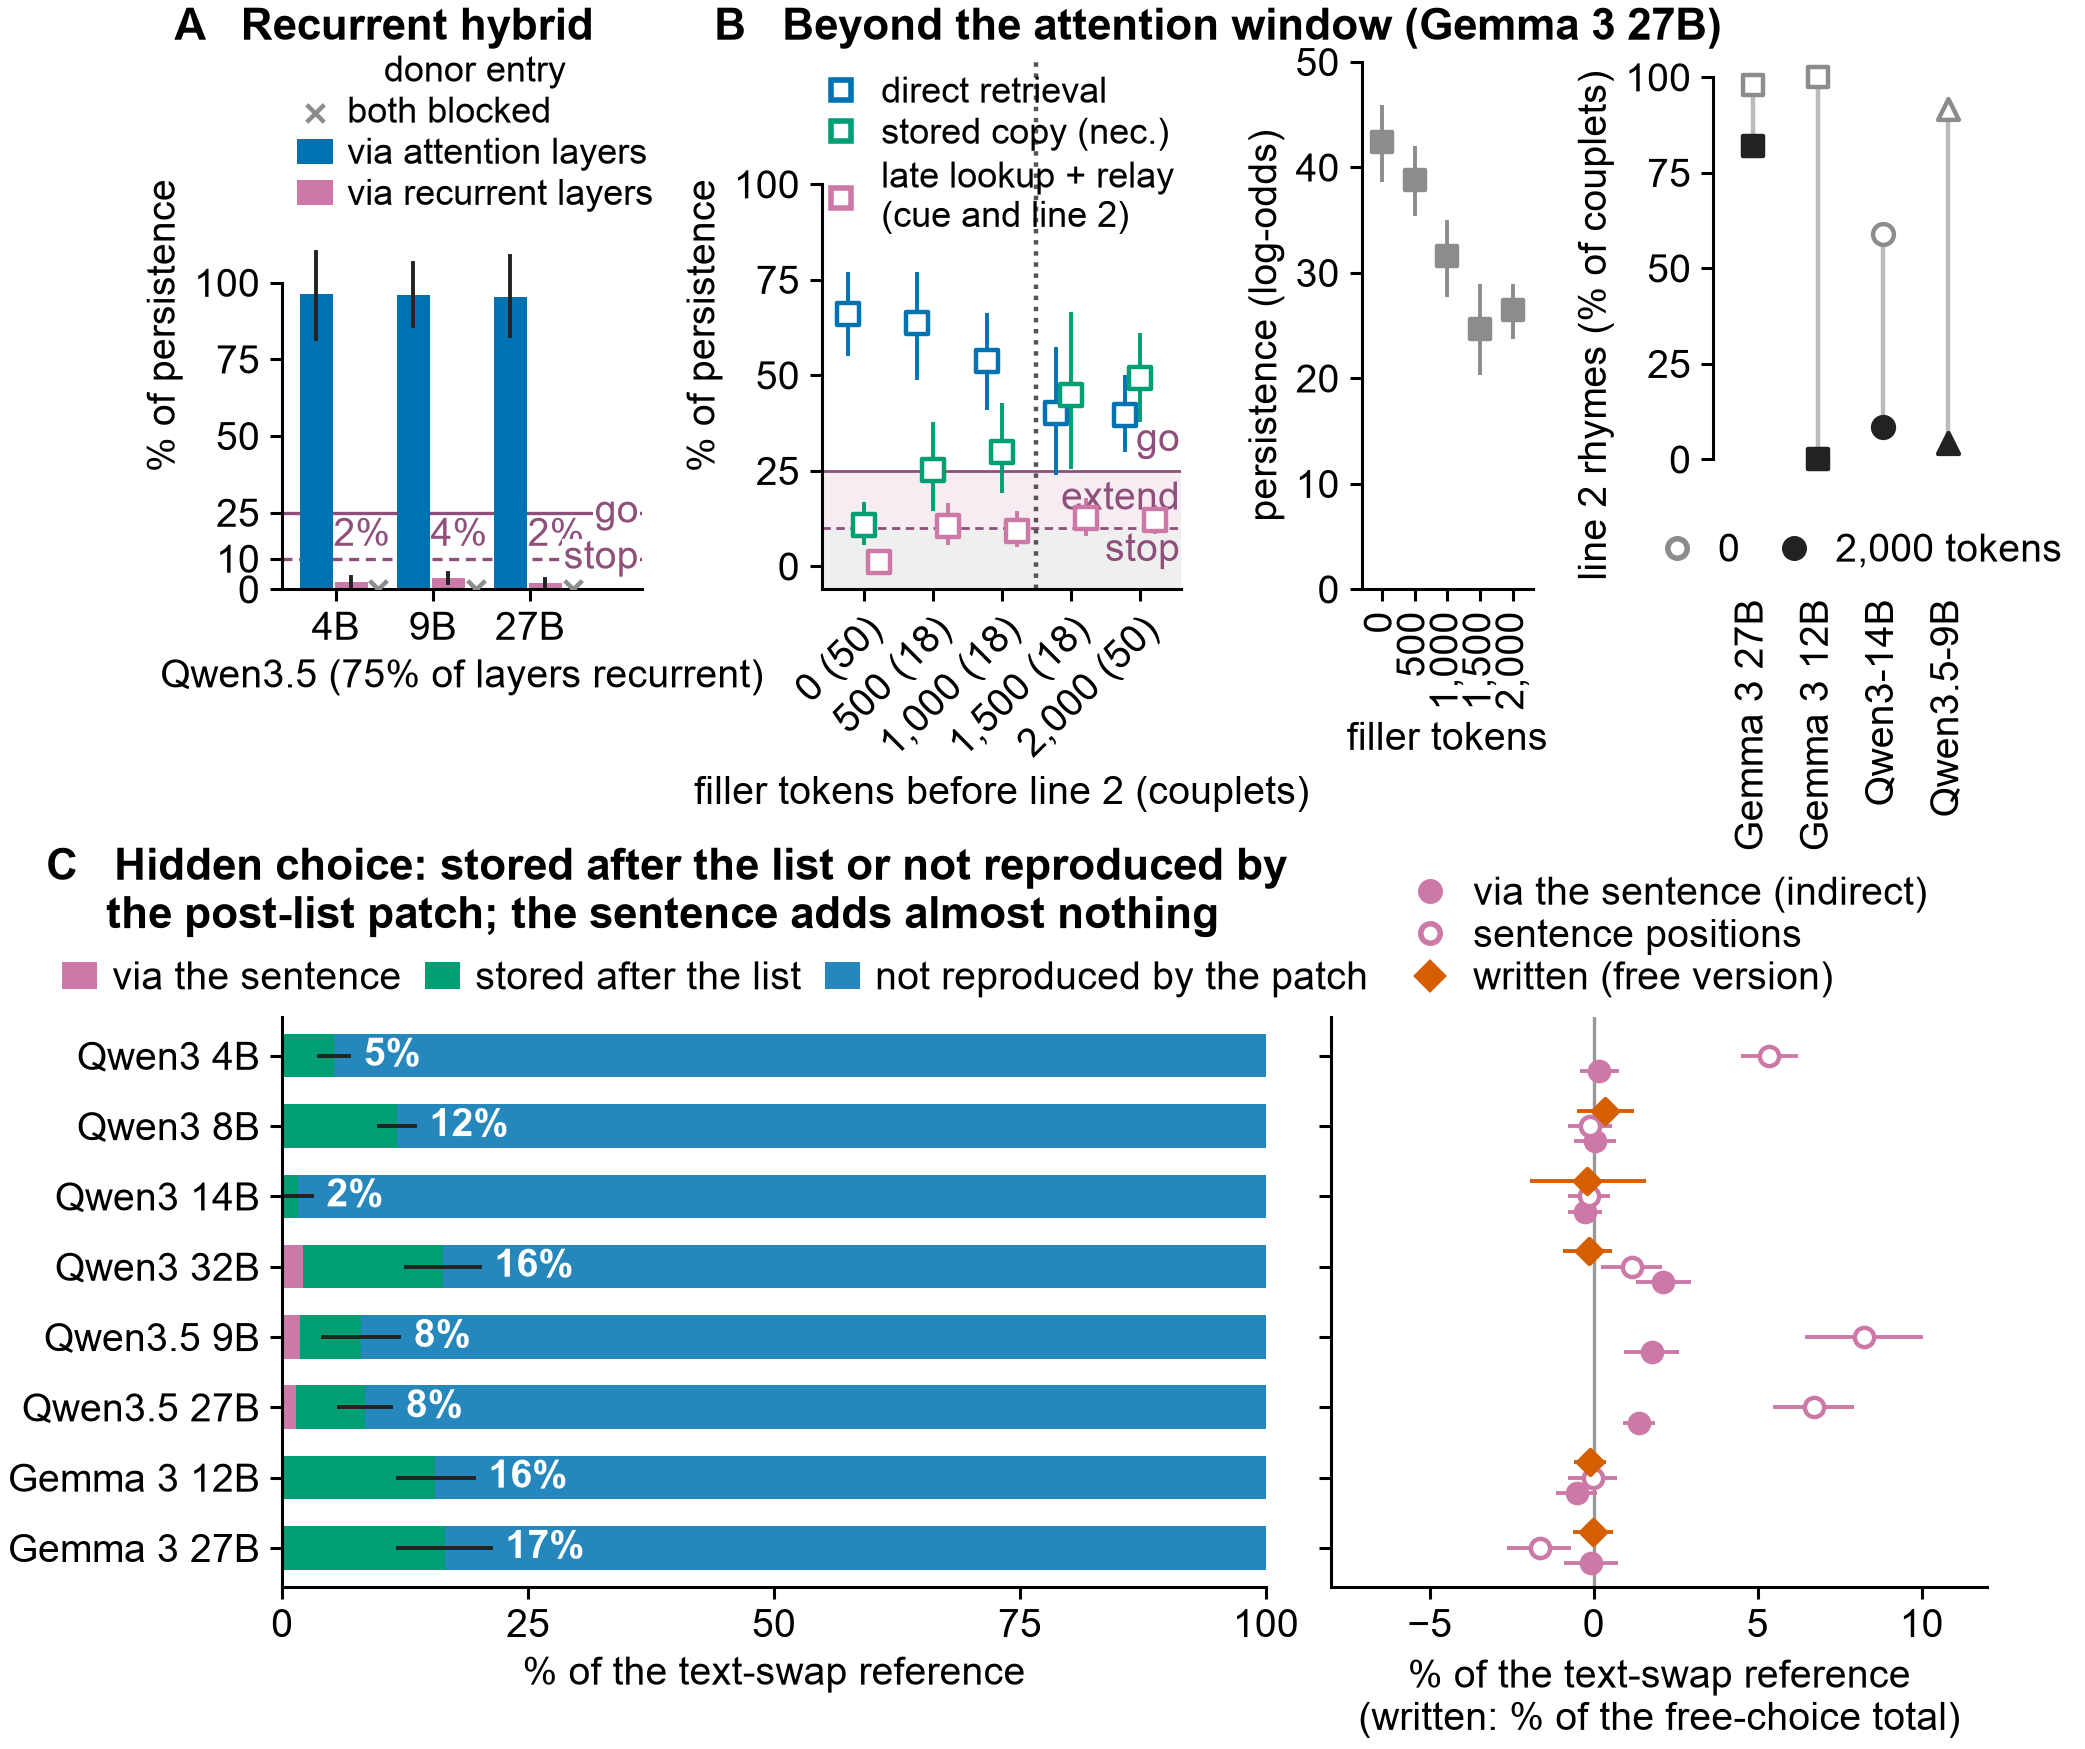
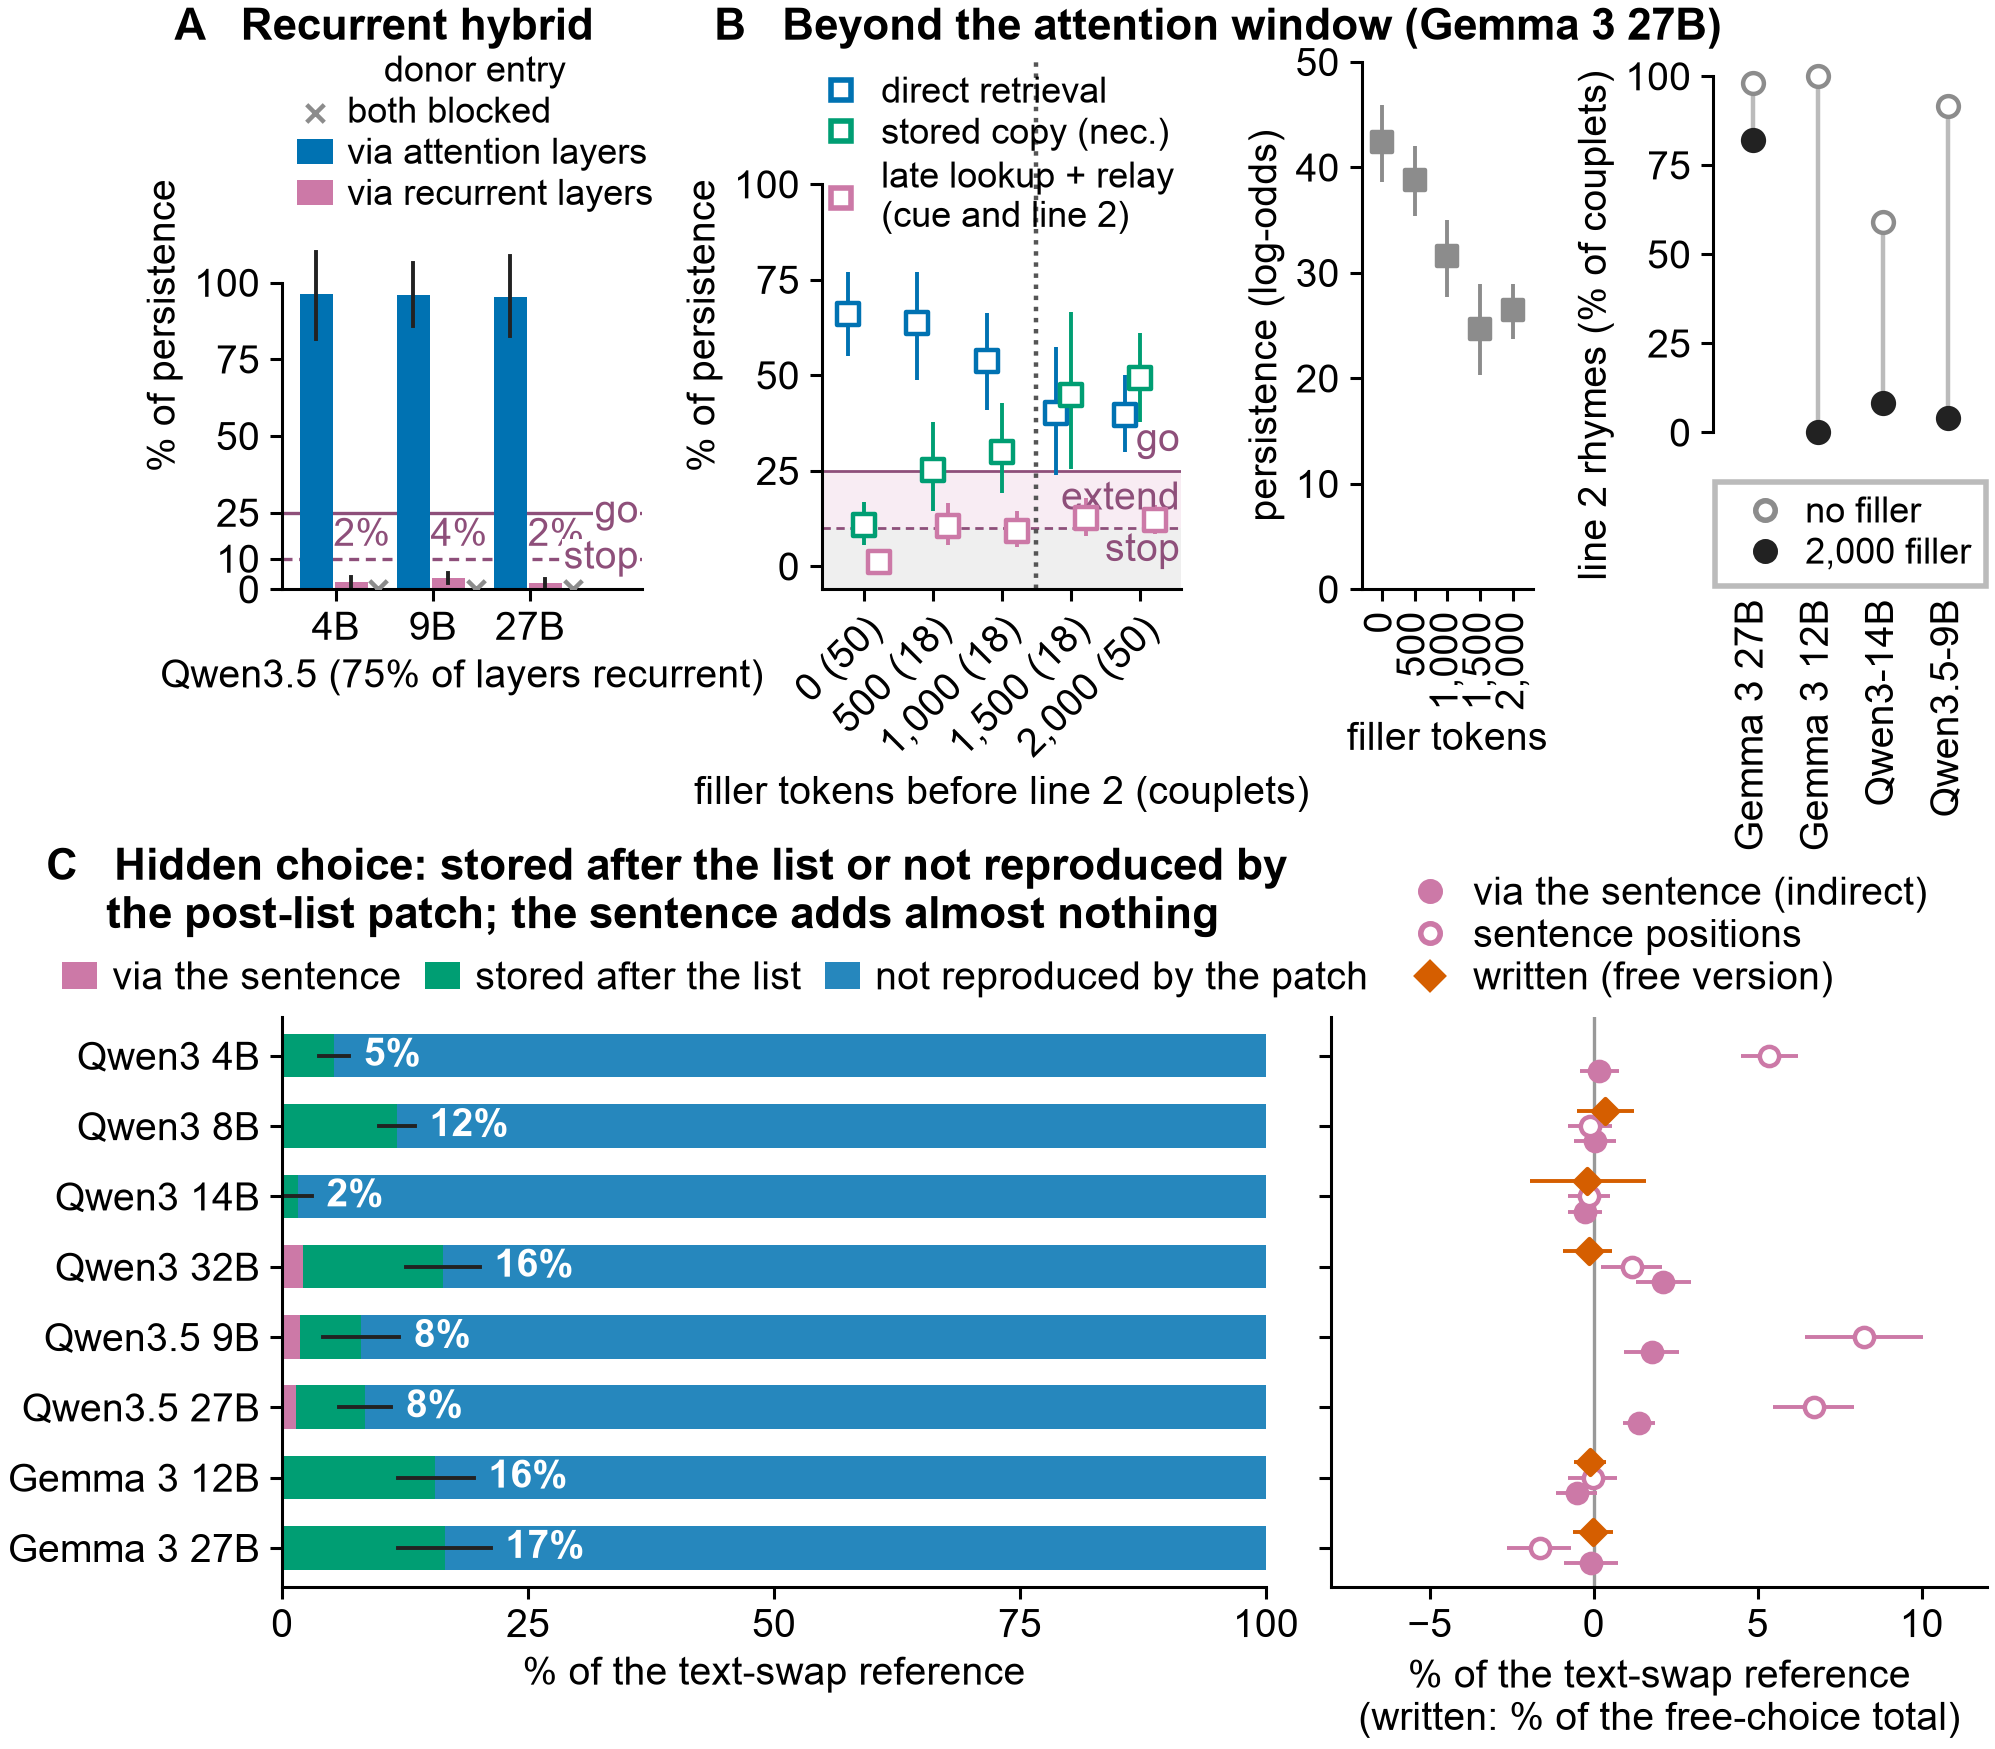
Simplify Figure 2 and the Figure 4B rhyme panel.
Figure 2: drop the base checkpoints (Table 3 and the appendix keep the
base versus instruct comparison) and give panel A one evenly spaced bar
per model, labelled with its size, instead of a log axis whose ticks
did not match the models. Panel B keeps its log axis.

Figure 4B, rhyme panel: one marker shape, and a framed legend reading
"no filler" and "2,000 filler" in place of "0" and "2,000 tokens",
which read as axis labels. The caption now says what is measured.

Rendered as paper_24.

diff --git a/manuscript/figures/make_iclr_figures.py b/manuscript/figures/make_iclr_figures.py
@@ -431,15 +431,15 @@ def fig1():
 # --------------------------------------------------------------------------- Figure 2
 
 def fig2():
-    panels = [("Qwen3, chat", [(d, s, False) for d, s in QWEN]),
-              ("Qwen3, plain", [(d + "-plain", s, False) for d, s in QWEN]
-               + [("Qwen3-8B-Base-plain", 8, True), ("Qwen3-14B-Base-plain", 14, True)]),
-              ("Gemma 3, chat", [(d, s, False) for d, s in GEMMA]),
-              ("Gemma 3, plain", [(d + "-plain", s, False) for d, s in GEMMA]
-               + [("gemma-3-12b-pt-plain", 12, True), ("gemma-3-27b-pt-plain", 27, True)])]
+    # Instruction-tuned checkpoints only; the base-checkpoint comparison is in Table 3 and the appendix.
+    panels = [("Qwen3, chat", [(d, s) for d, s in QWEN]),
+              ("Qwen3, plain", [(d + "-plain", s) for d, s in QWEN]),
+              ("Gemma 3, chat", [(d, s) for d, s in GEMMA]),
+              ("Gemma 3, plain", [(d + "-plain", s) for d, s in GEMMA])]
     fig = plt.figure(figsize=(W, 4.0))
-    gs = fig.add_gridspec(2, 4, height_ratios=[1.25, 1.0], hspace=0.66, wspace=0.12,
-                          left=0.09, right=0.99, top=0.83, bottom=0.1)
+    # Panel widths proportional to the number of models, so every bar has the same width.
+    gs = fig.add_gridspec(2, 4, height_ratios=[1.25, 1.0], width_ratios=[len(r) for _, r in panels],
+                          hspace=0.66, wspace=0.12, left=0.09, right=0.99, top=0.83, bottom=0.1)
     parts = [("retrieval", "direct retrieval", COL["retrieval"]),
              ("boundary", "stored copy at the line's final token", COL["storage"]),
              ("late", "late lookup (last 3 positions)", COL["late"]),
@@ -450,30 +450,24 @@ def fig2():
     for ci, (title, runs) in enumerate(panels):
         ax = fig.add_subplot(gs[0, ci])
         avail = [r for r in runs if couplet_shares(r[0])]
-        sizes = [r[1] for r in avail]
-        suff, nec, base_pts = [], [], []
-        for run, size, is_base in avail:
+        suff, nec = [], []
+        # One evenly spaced bar per model, labelled with its actual size.
+        for x, (run, size) in enumerate(avail):
             c = couplet_shares(run)
-            paired = sizes.count(size) > 1
-            w = 0.1 if paired else 0.17
-            x = lx(size) + ((0.055 if is_base else -0.055) if paired else 0.0)
             bottom = 0.0
             for k, _, colr in parts:
                 v = 100 * max(c[k], 0.0)
-                ax.bar(x, v, w, bottom=bottom, color=colr, lw=0)
+                ax.bar(x, v, 0.62, bottom=bottom, color=colr, lw=0)
                 bottom += v
-            ax.bar(x, max(100 - bottom, 0.0), w, bottom=bottom, color=COL["interaction"], lw=0)
-            if is_base:
-                ax.scatter(x, 106, marker="*", s=18, color=COL["ink"], clip_on=False, zorder=5)
-                base_pts.append((size, 100 * c["boundary"]))
-            else:
-                suff.append((size, 100 * c["boundary"]))
-                if "nec_boundary" in c:
-                    nec.append((size, 100 * c["nec_boundary"]))
-        series.append((title, suff, nec, base_pts))
-        ax.set_xlim(lx(0.8), lx(42))
-        ax.set_xticks([lx(v) for v in xt])
-        ax.set_xticklabels([str(v) for v in xt])
+            ax.bar(x, max(100 - bottom, 0.0), 0.62, bottom=bottom, color=COL["interaction"], lw=0)
+            suff.append((size, 100 * c["boundary"]))
+            if "nec_boundary" in c:
+                nec.append((size, 100 * c["nec_boundary"]))
+        series.append((title, suff, nec))
+        ax.set_xlim(-0.6, len(avail) - 0.4)
+        ax.set_xticks(range(len(avail)))
+        ax.set_xticklabels([f"{r[1]:g}" for r in avail])
+        ax.tick_params(axis="x", length=0)
         ax.set_ylim(0, 100)
         ax.set_title(title, fontsize=7, weight="normal", pad=3)
         ax.set_xlabel("parameters (B)")
@@ -485,8 +479,7 @@ def fig2():
              weight="bold", va="top")
     hs = [Rectangle((0, 0), 1, 1, color=c) for _, _, c in parts]
     hs.append(Rectangle((0, 0), 1, 1, color=COL["interaction"]))
-    hs.append(Line2D([], [], ls="none", marker="*", ms=5, color=COL["ink"]))
-    fig.legend(hs, [l for _, l, _ in parts] + ["interaction", "base checkpoint"], loc="upper left", ncol=3,
+    fig.legend(hs, [l for _, l, _ in parts] + ["interaction"], loc="upper left", ncol=3,
                bbox_to_anchor=(0.04, 0.955), handlelength=1.0, columnspacing=0.9, labelspacing=0.2,
                borderaxespad=0.0)
 
@@ -498,7 +491,7 @@ def fig2():
     style = {"Qwen3, chat": ("o", "-"), "Qwen3, plain": ("o", (0, (3, 1.6))),
              "Gemma 3, chat": ("s", "-"), "Gemma 3, plain": ("s", (0, (3, 1.6)))}
     ends = []
-    for title, suff, nec, base_pts in series:
+    for title, suff, nec in series:
         mk, ls = style[title]
         if suff:
             xs, ys = [lx(p[0]) for p in suff], [p[1] for p in suff]
@@ -513,9 +506,6 @@ def fig2():
                     bx.annotate(f"necessity {p_[1]:.0f}%", xy=(lx(p_[0]), p_[1]),
                                 xytext=(lx(p_[0]) + 0.12, p_[1]), fontsize=7, color="#1B6E53", ha="left",
                                 va="center", arrowprops=dict(arrowstyle="-", color="#9BCDB9", lw=0.5))
-        if base_pts:
-            bx.scatter([lx(p[0]) for p in base_pts], [p[1] for p in base_pts], marker="*", s=34,
-                       color=COL["ink"], zorder=5)
     # Direct labels at the line ends, spread so they do not overlap.
     ends.sort(key=lambda e: e[1])
     ly = [e[1] for e in ends]
@@ -533,9 +523,8 @@ def fig2():
     bx.set_xlabel("parameters (B)")
     bx.set_ylabel("stored copy\n(% of persistence)")
     hs = [Line2D([], [], ls="none", marker="o", ms=4, mfc=COL["storage"], mec=COL["storage"]),
-          Line2D([], [], ls="none", marker="o", ms=4, mfc="white", mec=COL["storage"]),
-          Line2D([], [], ls="none", marker="*", ms=6, color=COL["ink"])]
-    bx.legend(hs, ["sufficiency (patched in)", "necessity (patched out)", "base checkpoint"], loc="upper left",
+          Line2D([], [], ls="none", marker="o", ms=4, mfc="white", mec=COL["storage"])]
+    bx.legend(hs, ["sufficiency (patched in)", "necessity (patched out)"], loc="upper left",
               handletextpad=0.2, labelspacing=0.2, borderaxespad=0.1)
     fig.text(0.0, bx.get_position().y1 + 0.035, "B   A stored copy at the line's final token appears from about 12 to 14B parameters",
              fontsize=8, weight="bold", va="bottom")
@@ -1042,23 +1031,25 @@ def fig4():
         bd = (x or {}).get("by_distance", {})
         if "0" in bd and "2000" in bd:
             rh.append((lab, fam, 100 * bd["0"]["rhymes_orig"], 100 * bd["2000"]["rhymes_orig"]))
+    # One marker shape here: the models are named on the axis, so the legend can match every point.
     for i, (lab, fam, r0, r2) in enumerate(rh):
         ax.plot([i, i], [r0, r2], color="#BBBBBB", lw=0.8, zorder=1)
-        ax.scatter(i, r0, marker=MARK[fam], s=14, facecolor="white", edgecolor=COL["grey"], lw=0.8, zorder=3)
-        ax.scatter(i, r2, marker=MARK[fam], s=14, facecolor=COL["ink"], edgecolor=COL["ink"], lw=0.8, zorder=3)
+        ax.scatter(i, r0, marker="o", s=14, facecolor="white", edgecolor=COL["grey"], lw=0.8, zorder=3)
+        ax.scatter(i, r2, marker="o", s=14, facecolor=COL["ink"], edgecolor=COL["ink"], lw=0.8, zorder=3)
     ax.set_xticks(range(len(rh)))
     ax.set_xticklabels([r[0] for r in rh], rotation=90)
     ax.tick_params(axis="x", length=0)
     ax.spines["bottom"].set_visible(False)
     ax.set_xlim(-0.6, len(rh) - 0.4)
-    ax.set_ylim(-34, 104)
+    ax.set_ylim(-44, 104)
     ax.set_yticks([0, 25, 50, 75, 100])
     ax.spines["left"].set_bounds(0, 100)
     ax.set_ylabel("line 2 rhymes (% of couplets)")
     hs = [Line2D([], [], ls="none", marker="o", ms=3.5, mfc="white", mec=COL["grey"]),
           Line2D([], [], ls="none", marker="o", ms=3.5, mfc=COL["ink"], mec=COL["ink"])]
-    ax.legend(hs, ["0", "2,000 tokens"], loc="lower center", bbox_to_anchor=(0.5, 0.0), ncol=2,
-              handletextpad=0.05, borderaxespad=0.1, columnspacing=0.4)
+    ax.legend(hs, ["no filler", "2,000 filler"], loc="lower center", bbox_to_anchor=(0.5, 0.0), ncol=1,
+              handletextpad=0.1, borderaxespad=0.1, labelspacing=0.2, frameon=True, fancybox=False,
+              edgecolor="#BBBBBB", framealpha=1.0, fontsize=6.5)
 
     # C. Hidden choice: composition of the text-swap reference.
     models = [("Qwen3-4B", "Qwen3 4B"), ("Qwen3-8B", "Qwen3 8B"), ("Qwen3-14B", "Qwen3 14B"),
